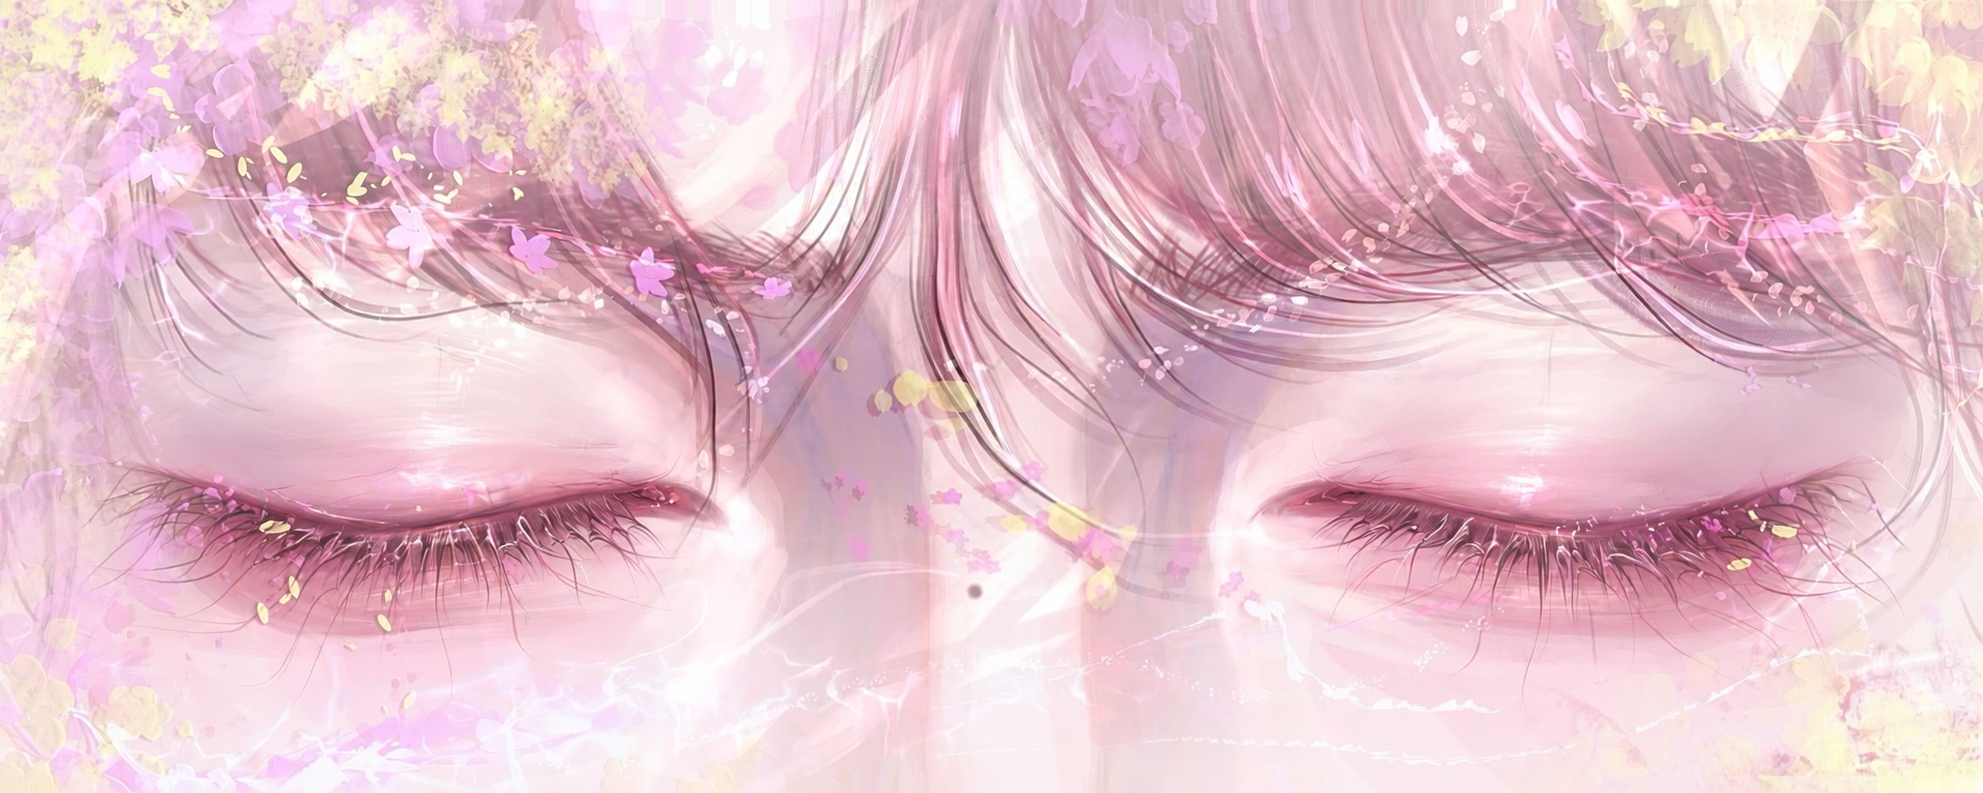
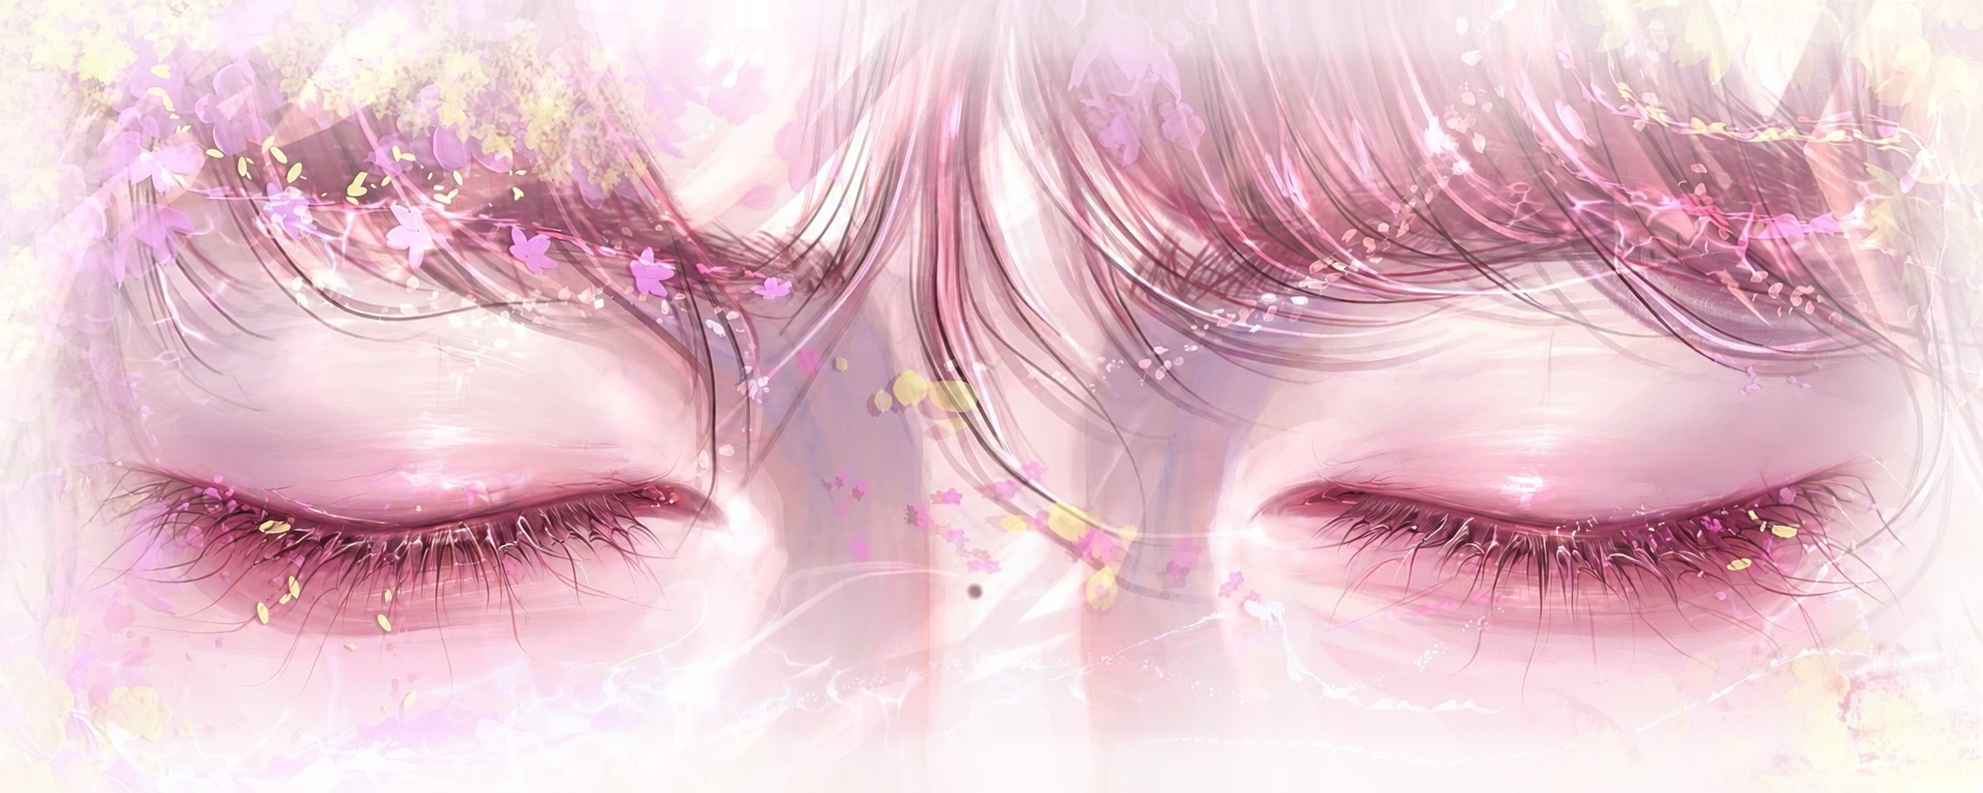
更新：猫眼图片v2

diff --git a/components/feline/HeroSection.tsx b/components/feline/HeroSection.tsx
@@ -261,7 +261,7 @@ export default function HeroSection({ onEggTrigger, scrollY }: HeroSectionProps)
 
 function CatEyeSVG({ blinking }: { blinking: boolean }) {
   return (
-    <div className="relative" style={{ width: 600, height: 200 }}>
+    <div className="relative" style={{ width: 550, height: 200 }}>
       {/* Ambient glow，保留原来的氛围光晕效果 */}
       <div
         aria-hidden="true"
@@ -293,7 +293,7 @@ function CatEyeSVG({ blinking }: { blinking: boolean }) {
         style={{
           filter: "drop-shadow(0 0 18px rgba(216,167,177,0.5))",
           opacity: blinking ? 1 : 0,
-          transition: "opacity 0.5s ease-in",
+          transition: "opacity 0.6s ease-in",
         }}
       />
     </div>
